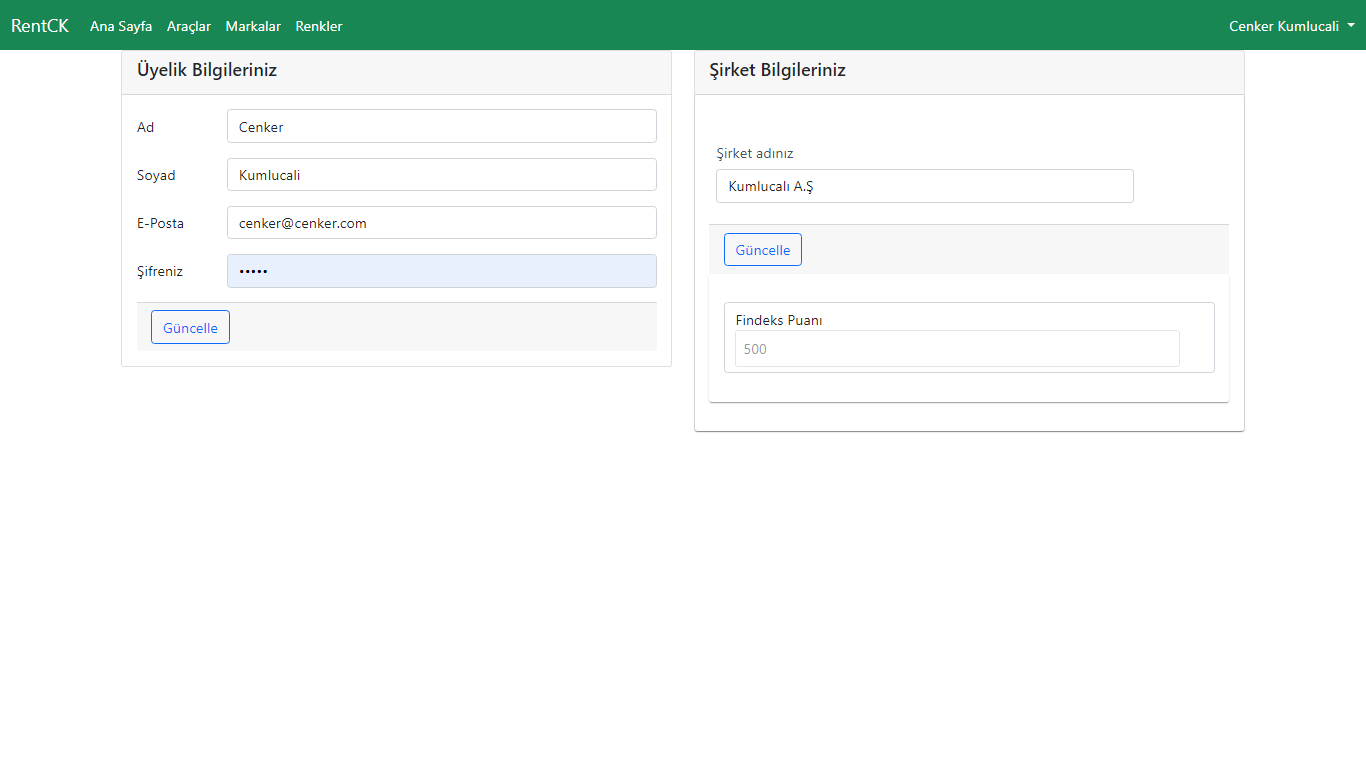
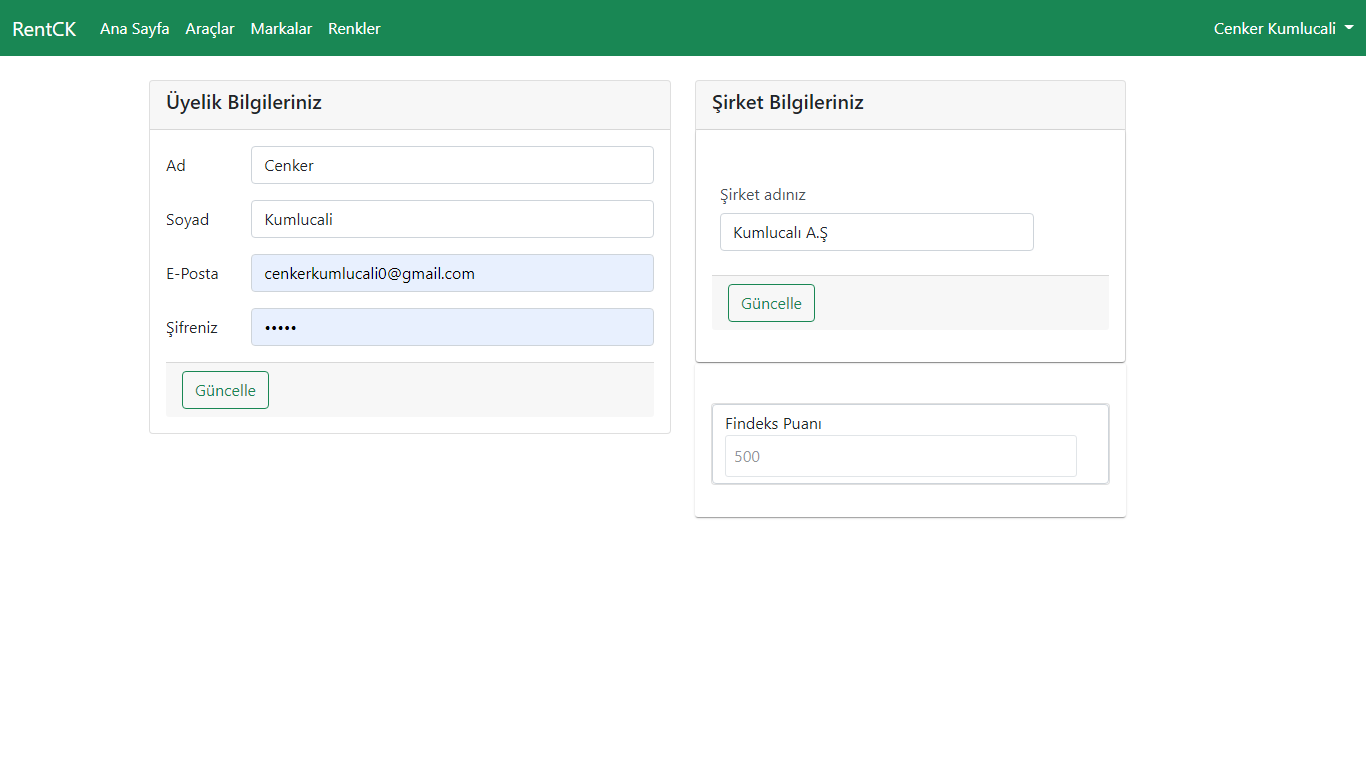
updated

diff --git a/src/app/component/profil/profil-update/profil-update.component.html b/src/app/component/profil/profil-update/profil-update.component.html
@@ -1,7 +1,7 @@
 <div class="container">
   <div class="row">
     <div class="col-md-6">
-      <div class="card">
+      <div class="card mt-4">
         <div class="card-header"><h5 class="card-title">Üyelik Bilgileriniz</h5></div>
         <div class="card-body">
   
@@ -41,15 +41,15 @@
               </div>
             </div>
             <div class="card-footer">
-              <button class="btn btn-outline-primary" (click)="updateProfile()" >Güncelle</button>
+              <button class="btn btn-outline-success" (click)="updateProfile()" >Güncelle</button>
             </div>
           </form>
         </div>
         
       </div>
     </div>
-    <div class="col-md-6">
-      <div class="card">
+    <div class="col-md-5">
+      <div class="card mt-4">
       <div class="card-header"><h5 class="card-title">Şirket Bilgileriniz</h5></div>
       <div >
         <p-card>
@@ -68,7 +68,7 @@
               </div>
               
               <div class="card-footer">
-                <button class="btn btn-outline-primary" (click)="updateCustomer()" >Güncelle</button>
+                <button class="btn btn-outline-success" (click)="updateCustomer()" >Güncelle</button>
               </div>
               
               <!-- <div class="p-field p-md-2 p-grid" style="margin-top: 5px;">
@@ -79,23 +79,25 @@
               </div> -->
               
             </form>
-            <div *ngIf="customer">
-              <p-card>
-                <div class="col-md-12">
-                    <div class="d-flex justify-content-center">
-                        <span class="form-control">
-                          <label for="input-tel">Findeks Puanı</label>
-                            <input type="text" style="width:95%" disabled [(ngModel)]="customer.findeksScore" id="disabled-findeks" pInputText>
-                            
-                        </span>
-                    </div>
-                </div>
-              </p-card>
-            </div>
             
           </div>
         </p-card>
       </div>
+    </div>
+    <div *ngIf="customer">
+      <p-card>
+        <div class="col-md-12">
+          <div class="card mt-2">
+            <div class="d-flex justify-content-center">
+                <span class="form-control">
+                  <label for="input-tel">Findeks Puanı</label>
+                    <input type="text" style="width:95%" disabled [(ngModel)]="customer.findeksScore" id="disabled-findeks" pInputText>
+                    
+                </span>
+            </div>
+        </div>
+      </div>
+      </p-card>
     </div>
   </div>
     </div>

diff --git a/src/app/component/brand/brand.component.ts b/src/app/component/brand/brand.component.ts
@@ -51,7 +51,9 @@ export class BrandComponent implements OnInit {
     this.brandService.delete(brand).subscribe((response=>{
       this.toastrService.success(response.message)
     console.log(response)
-  
+      setTimeout(function(){
+        location.reload()
+      },200)
     }),errorResponse=>{
       if(errorResponse.error.error.length>0){
         for (let i = 0; i < errorResponse.error.error.length; i++) {
